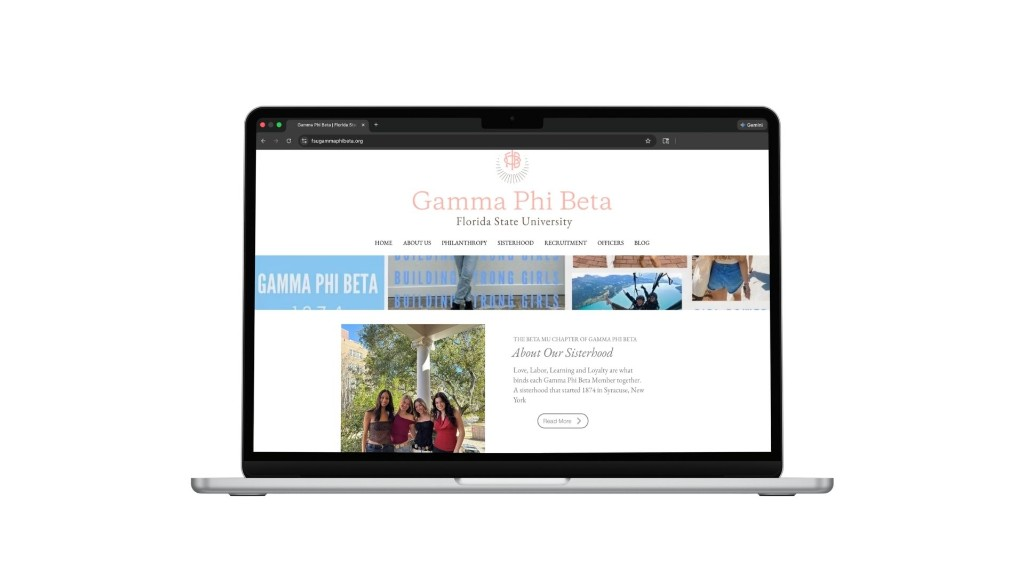
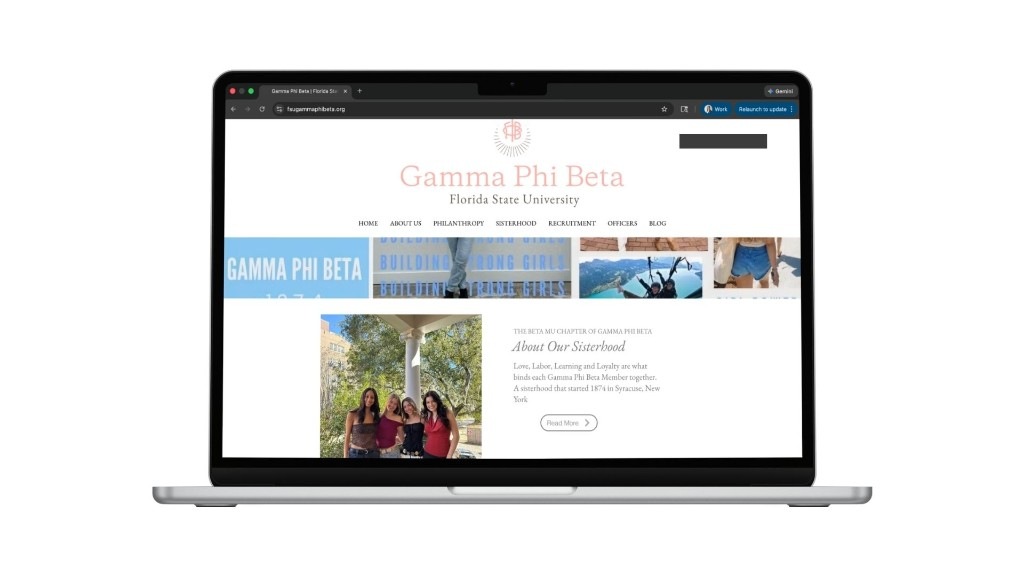
fixed a few things

Changed region(s): [[0.125, 0.0938, 0.875, 0.9062], [0.5312, 0.7188, 0.5938, 0.75]]

diff --git a/index.html b/index.html
@@ -81,6 +81,23 @@
               </div>
             </a>
 
+            <a href="case-study.html?project=moodGarden" class="project-card" data-aos="fade-up">
+              <div class="project-card-image">
+                <img
+                  src="assets/img/moodGarden-thumb.jpg"
+                  alt="Mood Garden project thumbnail"
+                />
+              </div>
+              <div class="project-card-content">
+                <h3 class="project-card-title">Mood Garden</h3>
+                <p class="project-card-subtitle">Mood Tracking app</p>
+                <div class="project-card-tags">
+                  <span class="tag">Mobile</span>
+                  <span class="tag">Mental Health</span>
+                  <span class="tag">Growth</span>
+                </div>
+              </div>
+            </a>
             <a
               href="case-study.html?project=gamma-phi-beta"
               class="project-card"
@@ -101,23 +118,6 @@
                   <span class="tag">Web</span>
                   <span class="tag">CMS</span>
                   <span class="tag">IA</span>
-                </div>
-              </div>
-            </a>
-            <a href="case-study.html?project=moodGarden" class="project-card" data-aos="fade-up">
-              <div class="project-card-image">
-                <img
-                  src="assets/img/moodGarden-thumb.jpg"
-                  alt="Mood Garden project thumbnail"
-                />
-              </div>
-              <div class="project-card-content">
-                <h3 class="project-card-title">Mood Garden</h3>
-                <p class="project-card-subtitle">Mood Tracking app</p>
-                <div class="project-card-tags">
-                  <span class="tag">Mobile</span>
-                  <span class="tag">Mental Health</span>
-                  <span class="tag">Growth</span>
                 </div>
               </div>
             </a>

diff --git a/styles.css b/styles.css
@@ -257,9 +257,16 @@ section {
   padding: var(--spacing-xl) 0;
 }
 
+/* Featured Work: curved top arch */
 .featured-work {
   background-color: var(--color-card-bg);
-  padding-top: var(--spacing-xl);
+  border-radius: 4rem 4rem 0 0;
+  overflow: visible;
+  padding-top: calc(var(--spacing-xl) + 3rem);
+  box-shadow:
+    0 -8px 32px rgba(187, 209, 239, 0.35),
+    0 4px 24px rgba(187, 209, 239, 0.12),
+    0 0 0 1px rgba(187, 209, 239, 0.2);
 }
 
 .section-title {
